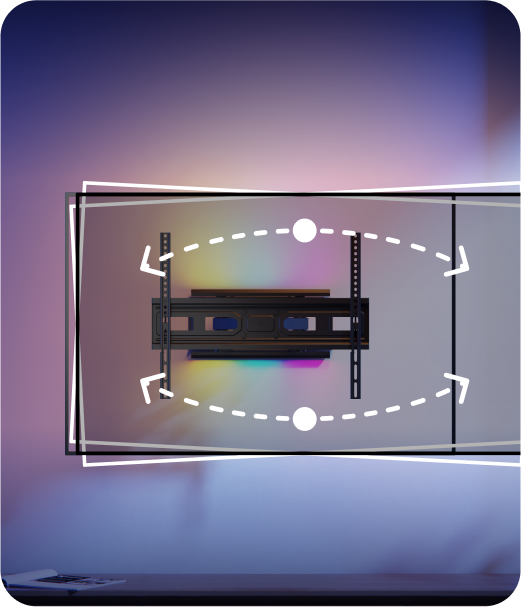
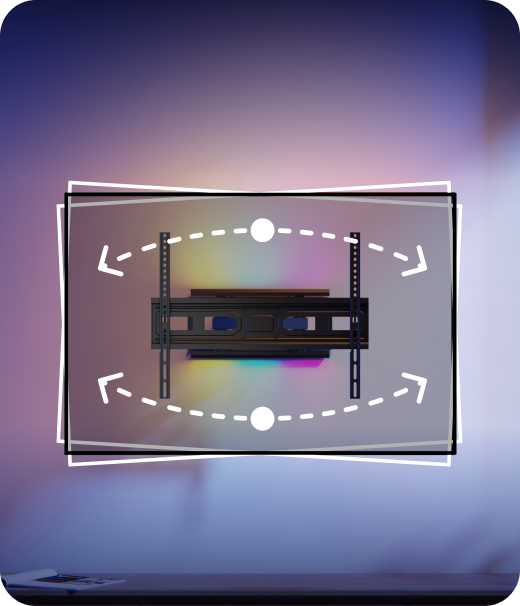
fixed some mistakes in text & images

diff --git a/index.html b/index.html
@@ -190,7 +190,7 @@
 
                         <div class="magnetic-list">
                             <div class="magnetic-item item-1">
-                                <p class="sub-title">Світанок</p>
+                                <p class="sub-title">Біля стіни</p>
                             </div>
                             <div class="magnetic-item item-2">
                                 <p class="sub-title">Вертикально</p>
@@ -376,7 +376,7 @@
                                 />
                             </div>
                             <p class="main-text">
-                                МVESA від 100×100<br />
+                                VESA від 100×100<br />
                                 до 400×600
                             </p>
                         </div>
@@ -661,6 +661,11 @@
                                             <div class="doted"></div>
                                             <span class="done-icon specs-text">✓</span>
                                         </div>
+                                        <div class="specs-item">
+                                            <p class="specs-text">Живлення від USB</p>
+                                            <div class="doted"></div>
+                                            <span class="done-icon specs-text">✓</span>
+                                        </div>
                                     </div>
                                 </div>
                                 <div class="swiper-slide">
@@ -764,27 +769,17 @@
                                     <div class="doted"></div>
                                     <span class="done-icon specs-text">✓</span>
                                 </div>
+                                <div class="specs-item">
+                                    <p class="specs-text">Живлення від USB</p>
+                                    <div class="doted"></div>
+                                    <span class="done-icon specs-text">✓</span>
+                                </div>
                             </div>
                             <div class="specs-item-wrap">
                                 <div class="specs-item">
                                     <p class="specs-text">Кут повороту</p>
                                     <div class="doted"></div>
                                     <span class="spec-accent specs-text">±60°</span>
-                                </div>
-                                <div class="specs-item">
-                                    <p class="specs-text">Кут нахилу</p>
-                                    <div class="doted"></div>
-                                    <span class="spec-accent specs-text">+3° до −15°</span>
-                                </div>
-                                <div class="specs-item">
-                                    <p class="specs-text">Кут горизонту</p>
-                                    <div class="doted"></div>
-                                    <span class="spec-accent specs-text">±3°</span>
-                                </div>
-                                <div class="specs-item">
-                                    <p class="specs-text">Відстань до стіни</p>
-                                    <div class="doted"></div>
-                                    <span class="spec-accent specs-text">67 до 355 мм</span>
                                 </div>
                                 <div class="specs-item">
                                     <p class="specs-text">Матеріал</p>
@@ -794,14 +789,29 @@
                                     >
                                 </div>
                                 <div class="specs-item">
+                                    <p class="specs-text">Кут нахилу</p>
+                                    <div class="doted"></div>
+                                    <span class="spec-accent specs-text">+3° до −15°</span>
+                                </div>
+                                <div class="specs-item">
                                     <p class="specs-text">Підтримувані діагоналі</p>
                                     <div class="doted"></div>
                                     <span class="spec-accent specs-text">37" до 80"</span>
                                 </div>
                                 <div class="specs-item">
+                                    <p class="specs-text">Кут горизонту</p>
+                                    <div class="doted"></div>
+                                    <span class="spec-accent specs-text">±3°</span>
+                                </div>
+                                <div class="specs-item">
                                     <p class="specs-text">VESA</p>
                                     <div class="doted"></div>
                                     <span class="spec-accent specs-text">100x100 до 400x600</span>
+                                </div>
+                                <div class="specs-item">
+                                    <p class="specs-text">Відстань до стіни</p>
+                                    <div class="doted"></div>
+                                    <span class="spec-accent specs-text">67 до 355 мм</span>
                                 </div>
                                 <div class="specs-item">
                                     <p class="specs-text">Максимальна вага</p>

diff --git a/css/styles.css b/css/styles.css
@@ -565,6 +565,10 @@ body {
             background-image: url('../img/remote/bg_remote-wide.png');
         }
 
+        @media (min-width: 1800px) {
+            background-position: 0% 0%;
+        }
+
         .remote-wrap {
             display: flex;
             flex-direction: column;
@@ -780,7 +784,7 @@ body {
                     background-image: url('../img/motion/motion_item-3-mob.png');
 
                     @media (min-width: 960px) {
-                        background-image: url('../img/motion/motion_item-2-desc.png');
+                        background-image: url('../img/motion/motion_item-3-desc.png');
                     }
                 }
 
